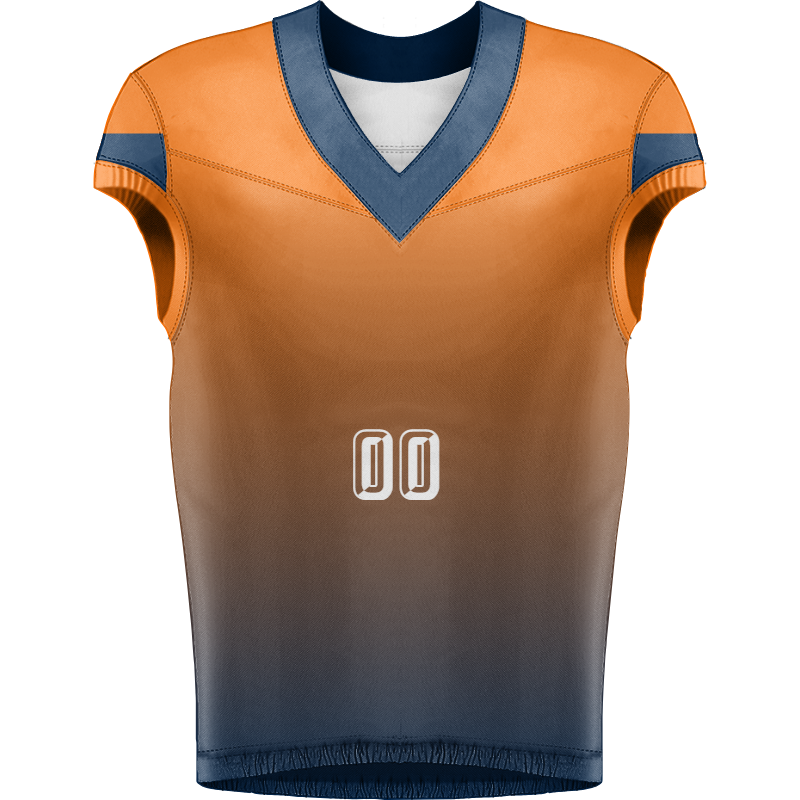
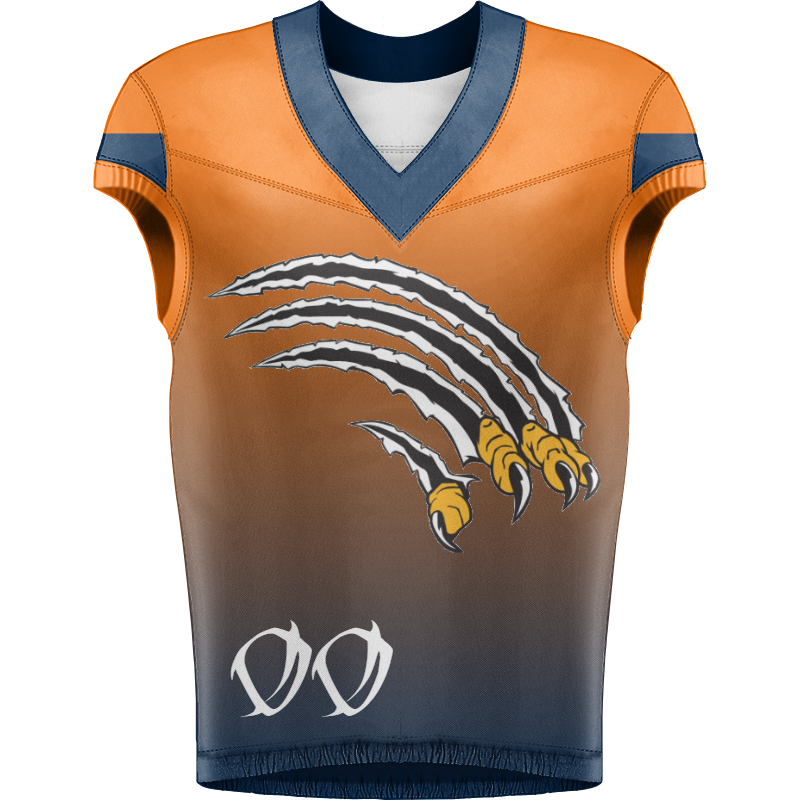
update

Changed region(s): [[0.25, 0.3125, 0.75, 0.6875], [0.2812, 0.7812, 0.5, 0.9062]]

diff --git a/resources/js/app.js b/resources/js/app.js
@@ -54,38 +54,38 @@ app.component('profile-tab', ProfileTab);
 //  GLOBAL INSPECT / DEVTOOLS PROTECTION
 // =====================================================
 
-// document.addEventListener('contextmenu', e => e.preventDefault())
+document.addEventListener('contextmenu', e => e.preventDefault())
 
-// document.addEventListener('keydown', e => {
-//   if (
-//     e.key === 'F12' ||
-//     (e.ctrlKey && e.shiftKey && ['I','J','C'].includes(e.key.toUpperCase())) ||
-//     (e.ctrlKey && e.key.toUpperCase() === 'U') ||
-//     (e.metaKey && e.altKey && ['I','J','C'].includes(e.key.toUpperCase()))
-//   ) {
-//     e.preventDefault()
-//     e.stopPropagation()
-//     return false
-//   }
-// })
+document.addEventListener('keydown', e => {
+  if (
+    e.key === 'F12' ||
+    (e.ctrlKey && e.shiftKey && ['I','J','C'].includes(e.key.toUpperCase())) ||
+    (e.ctrlKey && e.key.toUpperCase() === 'U') ||
+    (e.metaKey && e.altKey && ['I','J','C'].includes(e.key.toUpperCase()))
+  ) {
+    e.preventDefault()
+    e.stopPropagation()
+    return false
+  }
+})
 
-// const devToolsCheck = () => {
-//   // Real mobile device hai toh skip karo
-//   const isRealMobile = /Android|iPhone|iPad|iPod|BlackBerry|IEMobile|Opera Mini/i.test(navigator.userAgent)
-//   if (isRealMobile) return
+const devToolsCheck = () => {
+  // Real mobile device hai toh skip karo
+  const isRealMobile = /Android|iPhone|iPad|iPod|BlackBerry|IEMobile|Opera Mini/i.test(navigator.userAgent)
+  if (isRealMobile) return
 
-//   const threshold = 160
-//   const widthDiff = window.outerWidth - window.innerWidth
-//   const heightDiff = window.outerHeight - window.innerHeight
+  const threshold = 160
+  const widthDiff = window.outerWidth - window.innerWidth
+  const heightDiff = window.outerHeight - window.innerHeight
 
-//   if (widthDiff > threshold || heightDiff > threshold) {
-//     document.body.innerHTML = '<h1 style="text-align:center;margin-top:20%;font-family:sans-serif;color:#000;">Access Denied</h1>'
-//     clearInterval(checkInterval)
-//   }
-// }
+  if (widthDiff > threshold || heightDiff > threshold) {
+    document.body.innerHTML = '<h1 style="text-align:center;margin-top:20%;font-family:sans-serif;color:#000;">Access Denied</h1>'
+    clearInterval(checkInterval)
+  }
+}
 
-// window.addEventListener('resize', devToolsCheck)
-// const checkInterval = setInterval(devToolsCheck, 1000)
+window.addEventListener('resize', devToolsCheck)
+const checkInterval = setInterval(devToolsCheck, 1000)
 
 // Mount app
 app.mount('#app');